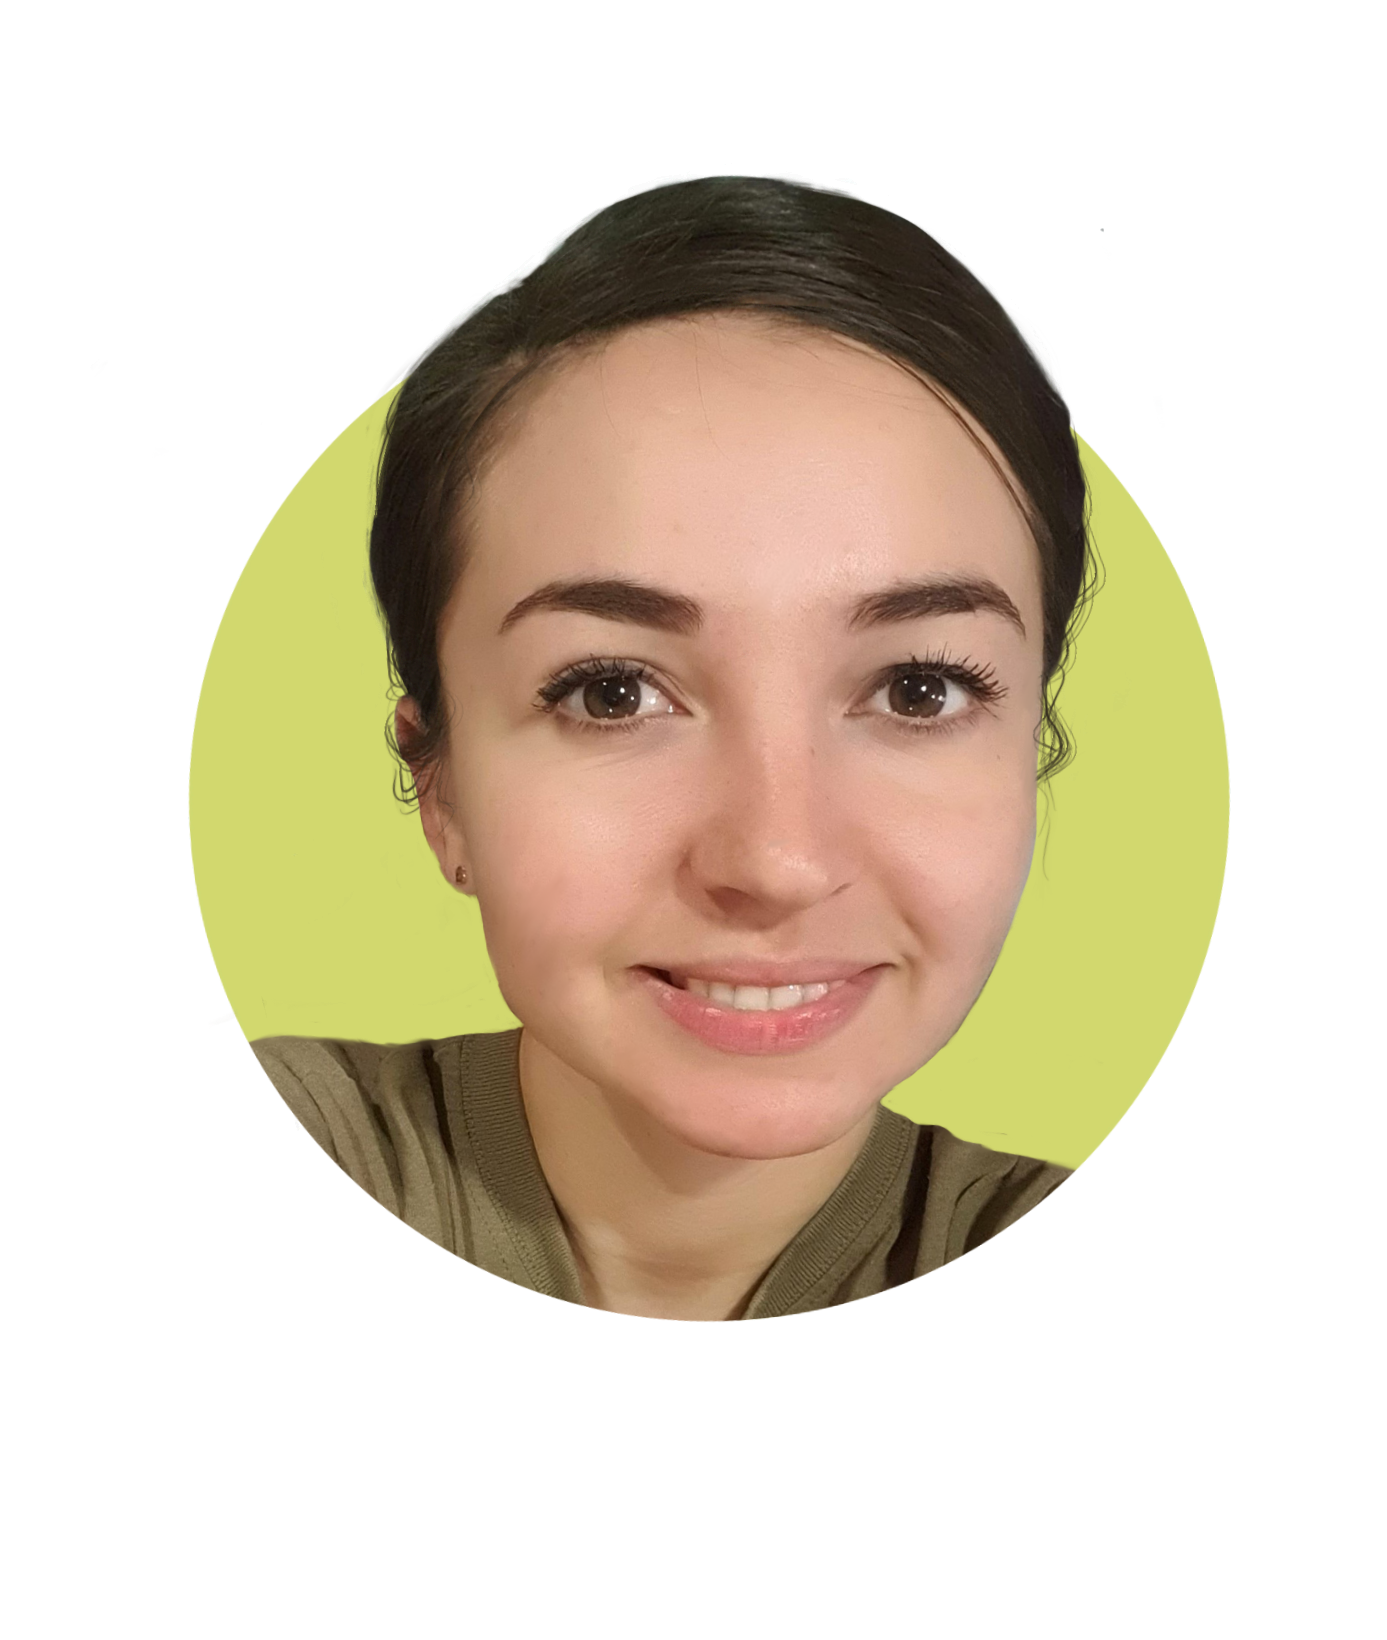
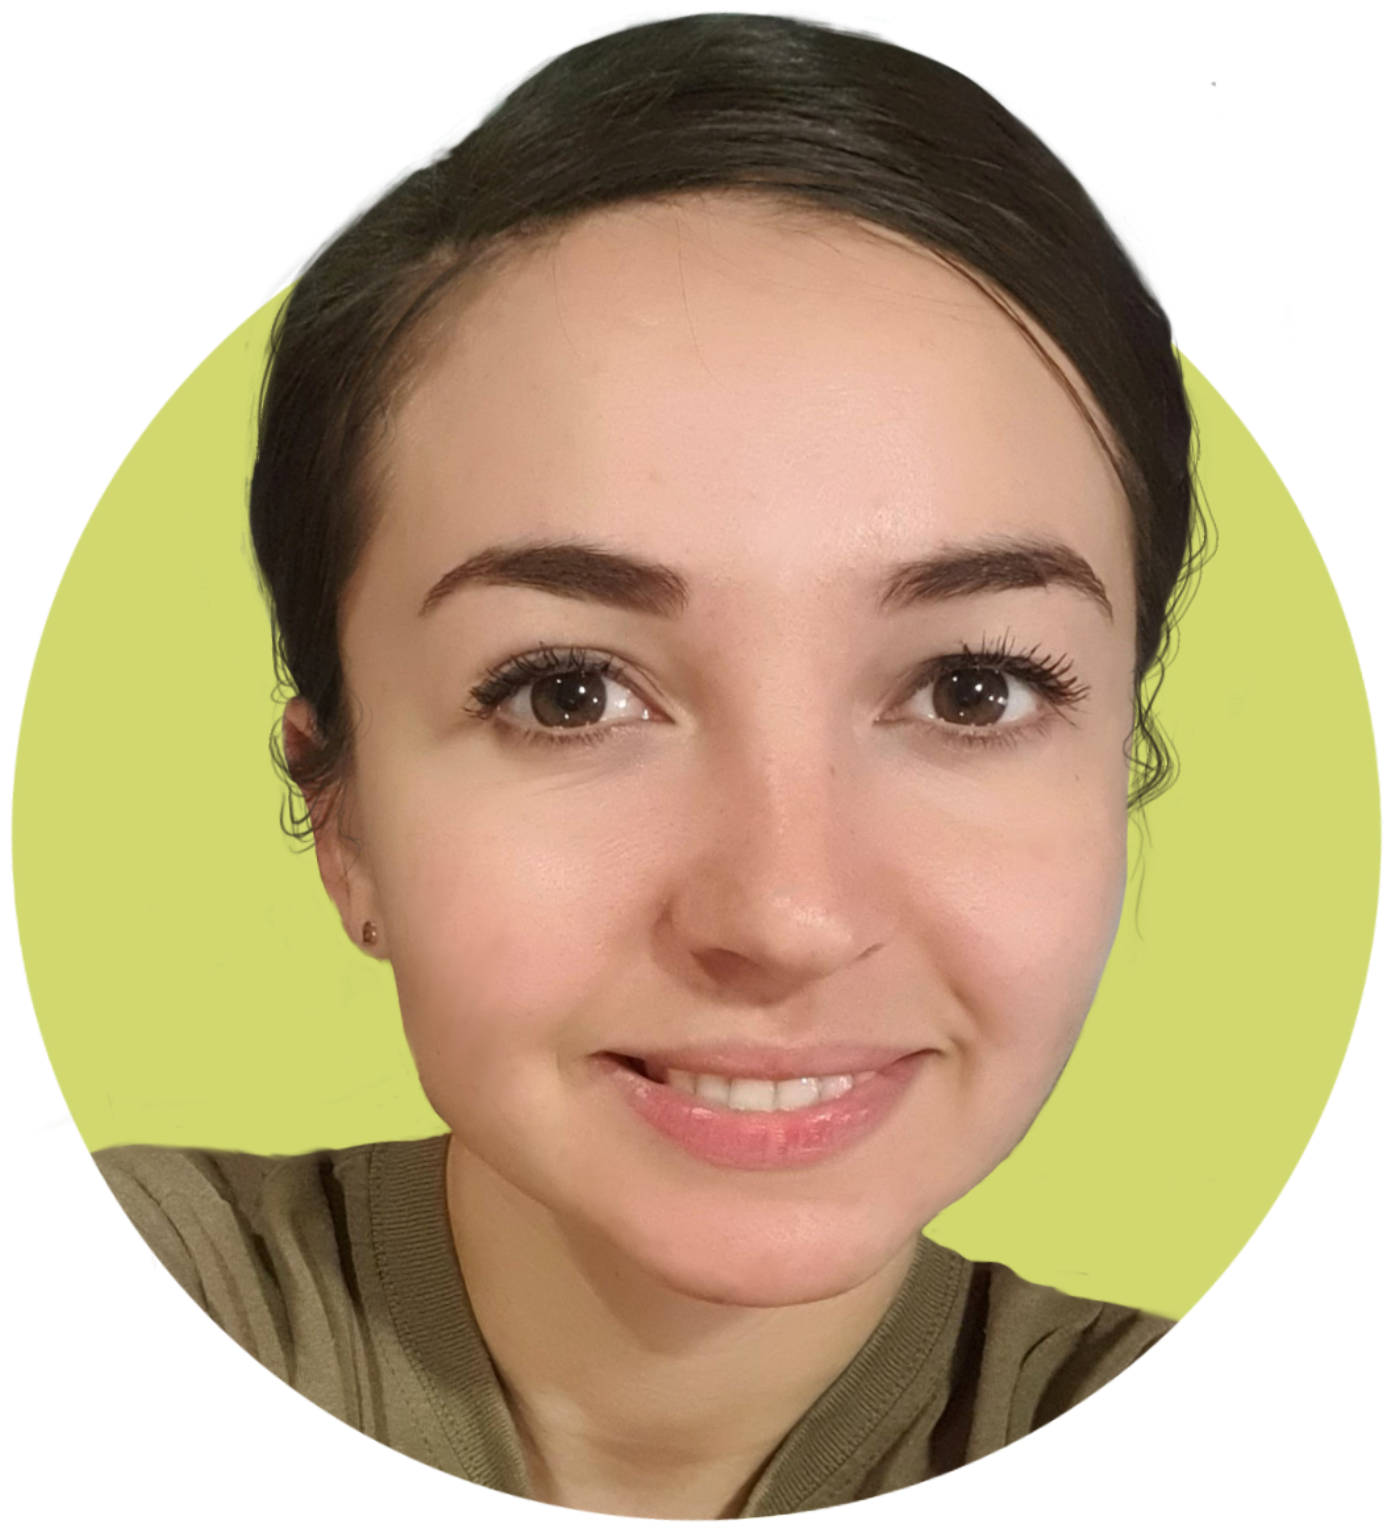
update hero section

diff --git a/index.html b/index.html
@@ -10,27 +10,44 @@
       href="https://fonts.googleapis.com/css2?family=Julius+Sans+One&family=Montserrat&family=Poiret+One&family=Source+Sans+Pro&display=swap"
       rel="stylesheet"
     />
-    <link rel="preconnect" href="https://fonts.googleapis.com">
+    <link rel="preconnect" href="https://fonts.googleapis.com" />
+    <link rel="preconnect" href="https://fonts.gstatic.com" crossorigin />
+    <link
+      href="https://fonts.googleapis.com/css2?family=Poppins&display=swap"
+      rel="stylesheet"
+    />
+    <link
+      href="http://cdnjs.cloudflare.com/ajax/libs/font-awesome/4.3.0/css/font-awesome.css"
+      rel="stylesheet"
+      type="text/css"
+    />
+    <link rel="preconnect" href="https://fonts.googleapis.com" />
+    <link rel="preconnect" href="https://fonts.gstatic.com" crossorigin />
+    <link
+      href="https://fonts.googleapis.com/css2?family=Edu+NSW+ACT+Foundation&display=swap"
+      rel="stylesheet"
+    />
+   <link rel="preconnect" href="https://fonts.googleapis.com">
 <link rel="preconnect" href="https://fonts.gstatic.com" crossorigin>
-<link href="https://fonts.googleapis.com/css2?family=Poppins&display=swap" rel="stylesheet">
-<link 
-  href="http://cdnjs.cloudflare.com/ajax/libs/font-awesome/4.3.0/css/font-awesome.css" 
-  rel="stylesheet"  type='text/css'>
+<link href="https://fonts.googleapis.com/css2?family=Dancing+Script&display=swap" rel="stylesheet">
 
 
-  <title>Alexandra's Portfolio</title>
+
+
+    <title>Alexandra's Portfolio</title>
     <link rel="stylesheet" href="style.css" />
     <link rel="stylesheet" href="index.css" />
   </head>
+
   <body class="container full-height-container">
     <header class="main-header">
-      <div class="logo-container">
+      <!-- <div class="logo-container">
         <span class="logo-symbols">&#10094;</span>
         <a href="/" class="logo">Alexandra </a>
-        <br>
+        <br />
         <a href="/" class="logo"> Haynes</a>
         <span class="logo-symbols">&#10095;</span>
-      </div>
+      </div> -->
 
       <nav class="main-nav">
         <ul>
@@ -38,45 +55,49 @@
           <li><a href="about.html">about</a></li>
           <li><a href="contact.html">contact</a></li>
           <li><a href="resume.html">resume</a></li>
+          <li>
+            <a href="#">
+              <img
+                src="/linkedin-icon3.svg"
+                alt="LinkedIn Icon"
+                class="linkedin-icon icon social-icons"
+              />
+            </a>
+          </li>
+          <li>
+            <a href="#">
+              <img
+                src="/github-icon3.svg"
+                alt="GitHub Icon"
+                class="github-icon icon social-icons"
+              />
+            </a>
+          </li>
         </ul>
       </nav>
     </header>
 
     <section class="home-main-section">
-      
-        <div class="avatar"></div>
+      <div class="introduction-container">
+        <div class="avatar flex-item"></div>
 
-        <div class="introduction">
-          <h1 class="title">I am <span id='span-highlight'>Alexandra</span></h1>
-          <h3 class="subtitle">a self-thought</h3>
-          <h3 class="subtitle">Junior Web Developer,</h3>
-          <h3 class='subtitle'>based in Oahu, HI</h3>
+        <div class="introduction-text flex-item">
+          <h2 class="title">I am</h2>
+          <h1 id="text-highlight">Alexandra Haynes</h1>
+          <hr />
+          <h3 class="subtitle">
+            a self-thought Junior Web Developer, based in Oahu, HI
+          </h3>
+
           <div class="call-to-action">
             <a href="/contact.html" class="contact-me button">Contact me</a>
           </div>
-          <div class="social-icons">
-            <a href="#">
-              <img
-                src="/linkedin-icon.svg"
-                alt="LinkedIn Icon"
-                class="linkedin-icon icon"
-              />
-            </a>
-            <a href="#">
-              <img
-                src="/github-icon.svg"
-                alt="GitHub Icon"
-                class="github-icon icon"
-              />
-            </a>
-          </div>
         </div>
-     
+      </div>
     </section>
 
-
-<!-- experiment -->
-<!-- <section class="background-animation">
+    <!-- experiment -->
+    <!-- <section class="background-animation">
     
     <div class="icons-array">
      <i class="fa fa-html5"></i>
@@ -92,6 +113,5 @@
 
     </div>
 </section> -->
-
   </body>
 </html>

diff --git a/index.css b/index.css
@@ -1,91 +1,67 @@
-.home-main-section {
+
+
+.introduction-container {
 
     display: flex;
-    flex-wrap: wrap;
     justify-content: center;
-    /* height: 80vh; */
-    margin: auto;
-    width: 100%;
-    position: relative;
-
-
+    align-items: center;
+   
+    
+    height: 60vh;
+    width: 80vw;
+   position: relative;
+   margin:  0 auto;
+margin-top: 10rem;
+    /* background-color: rgb(111, 107, 107); */
+    /* box-shadow: 10px 40px 20px rgba(0,0,0,0.5); */
+   
 }
 
-.home-main-section .avatar {
+.flex-item {
+    flex-grow: 1;
+    flex-basis:1;
+    flex-shrink: 1;
+    
+    
+}
+ .avatar {
+    
     background-image: url('avatar.png');
-    position: relative;
-    z-index: 2;
-    min-width: 50%;
-    background-size: contain;
+    background-position: center;
+    background-size:contain;
     background-repeat: no-repeat;
-
-
-
+    min-width: 40vw;
+    min-height: 60vh;
+    max-height: 80vh;
+   
+    /* border: 1px solid white; */
 }
 
-.introduction {
-    align-self: center;
+
+
+.introduction-text {
+   /* border: 1px solid orange; */
     display: flex;
     flex-direction: column;
-    flex-wrap: wrap;
-    align-items: flex-start;
     justify-content: center;
-    height: 70vh;
-
+    align-items: flex-start;
+    padding-left: 3rem;
+    
+   
 }
 
-.introduction .call-to-action {
+.introduction-text .call-to-action {
     margin: 2rem 0;
 
 }
 
-.introduction .subtitle {
+.introduction-text .subtitle {
     letter-spacing: 1px;
     line-height: 25px;
     opacity: .8;
 
 }
 
-.introduction .icon {
-    margin-top: 3rem;
-}
+
 
 /* ________________experiment */
-/* .linkedin-icon {
-    width: 80px;
-}
-.github-icon {
-    width: 80px;
-    position: absolute;
-    
-    animation: iconsAnimation 6s ease-in-out ;
-}
-
-
-
-@keyframes iconsAnimation {
-    0% {
-        transform:  translateX(600px) rotate(0deg);
-       
-    }
-
-    25% {
-        transform:  translateX(200px) rotate(-90deg);
-       
-    }
-
-    50% {
-        transform:  translateX(100px) rotate(-180deg);
-       
-    }
-
-
-
-890%{transform: translateX(-30px) rotate(-240deg);
-
-}
-
-100% {transform:  translateX(0) rotate(-360deg);
-
-}
-} */

diff --git a/style.css b/style.css
@@ -11,14 +11,14 @@
     --secondary-color: #95956E;
     --accent-color: #D2D86E;
     --font-color: #EFEFEF;
-    --headings-font-family: 'Julius Sans One', "Trebuchet MS", Helvetica, sans-serif;
+    --accent-font-family: 'Dancing Script', Helvetica, sans-serif;
     --regular-font-family:  'Poppins', sans-serif;
 }
 
 body {
     background: linear-gradient( rgb(34, 33, 33)
     ,var(--primary-color), var(--primary-color));
-    background-color: var(--primary-color);
+    /* background-color: var(--primary-color); */
     font-family: var(--regular-font-family);
     font-size: 1.2rem;
     color: var(--font-color);
@@ -54,17 +54,31 @@ body {
     margin: 0;
     padding: 0;
     list-style: none;
+    justify-content:flex-end;
+    align-items: center;
     
 }
 
 .main-nav a{
     color: inherit;
     text-decoration: none;
-    padding: 1rem;
+    padding: .6rem;
     text-transform: uppercase;
     
 }
+.linkedin-icon {
+    width: 60px;
+    
+}
 
+.github-icon {
+    width: 60px;
+
+}
+.social-icons:hover {
+    transform: scale(1.1);
+   
+}
 .main-nav a:hover,
 .main-nav a:focus {
     color: var(--accent-color);
@@ -73,30 +87,41 @@ body {
 
 .main-header {
     display: flex;
-    justify-content: space-between;
+    /* justify-content: space-between; */
+    justify-content: flex-end;
     align-items: center;
-    margin-top: 1rem;
+    margin-top: 2rem;
    
 }
 
 
 .title {
-    font-family: var(--headings-font-family);
+    font-family: var(--accent-font-family);
     color: var(--font-color);
-    font-size: 3rem;
-    font-weight: bold;
+    font-size: 4rem;
     
 }
 
-#span-highlight {
+#text-highlight {
     color: var(--accent-color);
+    font-family: var(--accent-font-family);
+    font-size: 3rem;
+    letter-spacing: 2px;
+   
    
 }
 .subtitle {
     font-family: var(--regular-font-family);
     color: inherit;
-    font-size: 1em;
+    font-size: 1.2em;
     font-weight: lighter;
+    margin-top: 3rem;
+   
+}
+hr{
+    width: 100%;
+    margin-top: .5rem;
+    opacity: .2;
 }
 
 .button {
